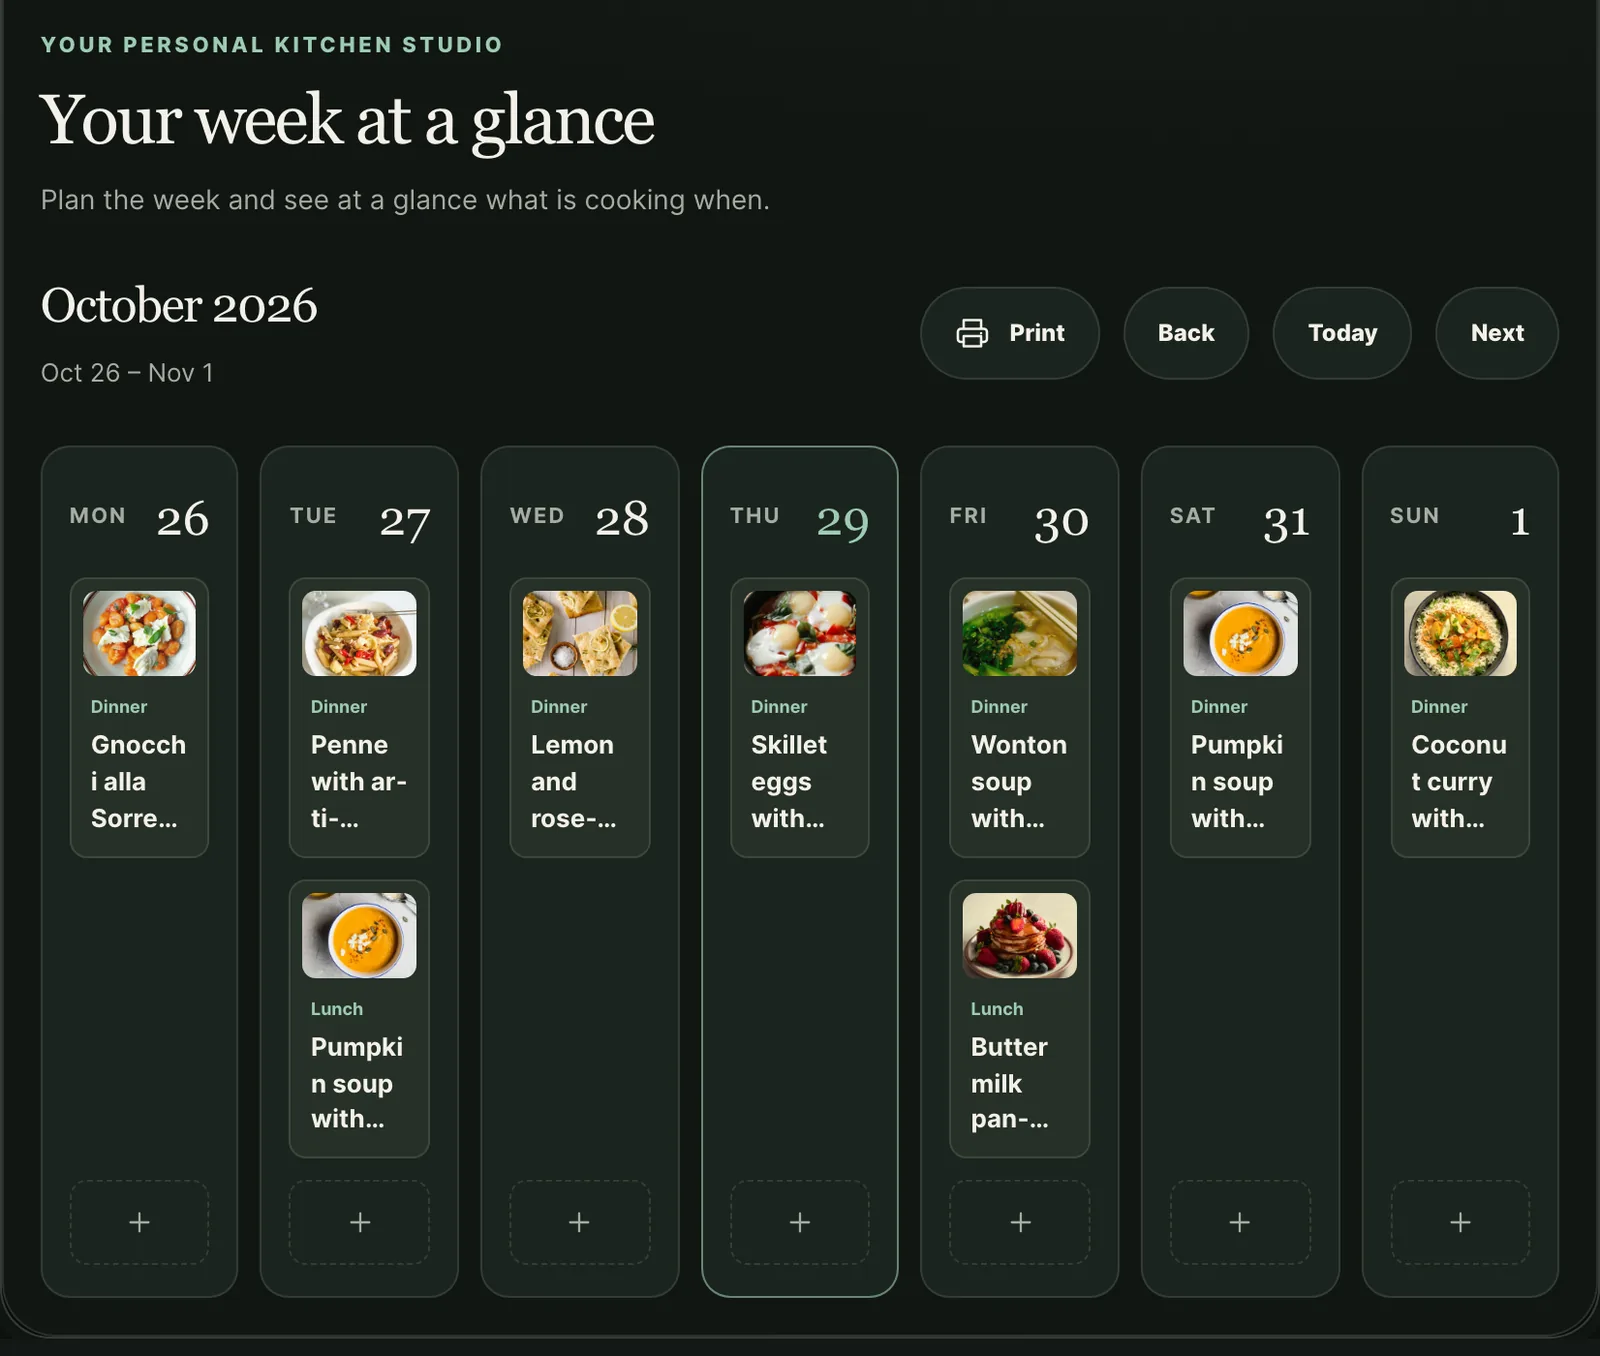
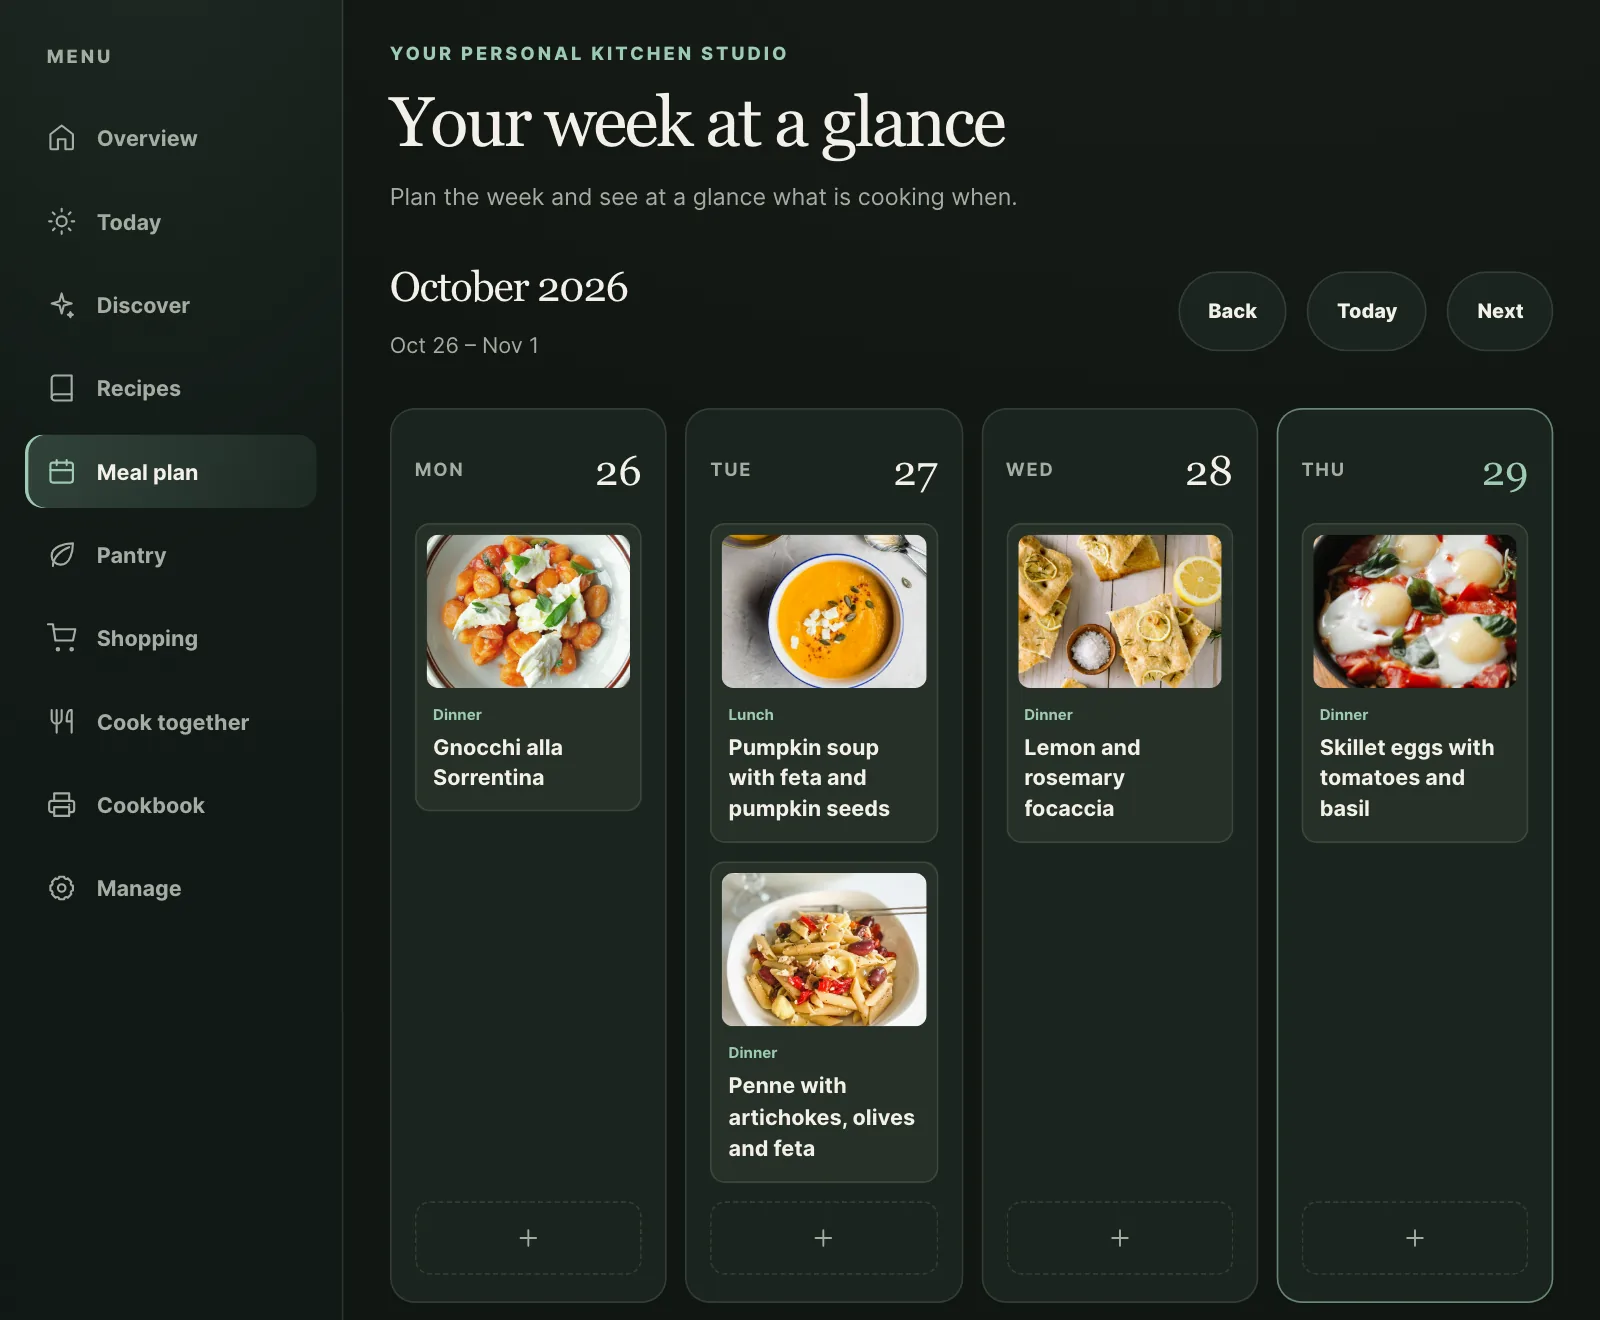
Clear stale sync result after Bring! re-login, fit reauth copy and spacing, recapture week plan feature shot

diff --git a/src/components/bring-wizard.js b/src/components/bring-wizard.js
@@ -557,9 +557,17 @@ export const bringWizardMethods = {
       ? `<dl class="bw-facts">${facts.map(([label, value]) => `<div class="bw-row"><dt>${esc(label)}</dt><dd>${esc(value)}</dd></div>`).join("")}</dl>`
       : "";
     let action = "";
-    if (reauth && editable)
-      action = `<p class="bw-text">${esc(this.t(caps.bringEnv ? "bwReauthTextEnv" : "bwReauthText"))}</p>${this._bwLoginErrorHtml()}${this._bwLoginFormHtml({ again: true })}`;
-    else if (!editable)
+    if (reauth && editable) {
+      // Without a rule there is nothing to keep, so the text must not promise it.
+      const key = caps.bringEnv
+        ? rules.length
+          ? "bwReauthTextEnv"
+          : "bwReauthTextEnvNoRules"
+        : rules.length
+          ? "bwReauthText"
+          : "bwReauthTextNoRules";
+      action = `<p class="bw-text">${esc(this.t(key))}</p>${this._bwLoginErrorHtml()}${this._bwLoginFormHtml({ again: true })}`;
+    } else if (!editable)
       // The read-only notice is the banner at the top of the dialog; saying it twice is noise.
       action = caps.readOnly
         ? ""

diff --git a/src/design-system/bring-wizard.css b/src/design-system/bring-wizard.css
@@ -358,6 +358,10 @@
 .atelier .bw-account > * + * {
   margin-block-start: var(--ds-space-3);
 }
+.atelier .bw-account .bw-account-head + .bw-text {
+  margin-block-start: var(--ds-space-4);
+  line-height: var(--ds-line-body);
+}
 .atelier .bw-account .bw-facts {
   margin-block-end: var(--ds-space-3);
 }
@@ -629,6 +633,9 @@
   }
   .atelier .bw-account > * + * {
     margin-block-start: var(--ds-space-2);
+  }
+  .atelier .bw-account .bw-account-head + .bw-text {
+    margin-block-start: var(--ds-space-3);
   }
   .atelier .bw-account [data-action="sync-bring-disconnect-ask"] {
     min-block-size: 0;

diff --git a/src/components/shopping-sync.js b/src/components/shopping-sync.js
@@ -429,6 +429,10 @@ export const shoppingSyncMethods = {
       sync.state = null;
       sync.raw = "";
       sync.error = "";
+      // A signed-in account must not keep the failure line of the run that expired it.
+      sync.result = "";
+      sync.resultIcon = "";
+      sync.resultQuiet = false;
       if (!wizard) this._modal = "sync";
     } catch (err) {
       bring.error = this._errorText(err);

diff --git a/scripts/capture-app-showcase.py b/scripts/capture-app-showcase.py
@@ -2,6 +2,7 @@
 
   desktop   app-desktop-recipes, app-desktop-mealplan, app-desktop-shopping, compare-desktop-atelier
   tablet    app-tablet-today, app-tablet-mealplan
+  feature   feature-mealplan (the product page "Wochenplan" card: a narrow window, so four whole days read at 580 px)
   phone     app-phone-cookbook, app-phone-discover, app-phone-family, app-phone-family-helper,
             app-phone-mealplan, app-phone-shopping (English only: the German phone shots carry no stale names)
 
@@ -39,6 +40,12 @@ LOCALES = {"de": "de-DE", "en": "en-US"}
 DESKTOP = dict(viewport=(1600, 1000), scale=1, mobile=False)
 COMPARE = dict(viewport=(1600, 797), scale=1, mobile=False)
 TABLET = dict(viewport=(1180, 820), scale=1600 / 1180, mobile=False)
+# The product page card shows the image at about 580 px. A 960 px window wraps the week into rows of four
+# whole days with unbroken names; the crop (CSS px, top and bottom) drops the breadcrumb row above and the
+# second week row below, so the shot ends on the bottom edge of the first row with a little margin.
+# "whole_names" turns automatic hyphenation off for this shot only, so no recipe name breaks mid word
+# ("Arti-schocken"); real hyphens in a name ("Zitronen-Focaccia") still wrap.
+FEATURE = dict(viewport=(960, 1200), scale=1600 / 960, mobile=False, crop=(91, 883), whole_names=True)
 PHONE = dict(viewport=(393, 852), scale=720 / 393, mobile=True)
 
 # name: (device, nav view, extra step, locales)
@@ -49,6 +56,7 @@ SHOTS = {
     "compare-desktop-atelier": (COMPARE, "recipes", None, ("de", "en")),
     "app-tablet-today": (TABLET, "today", None, ("de", "en")),
     "app-tablet-mealplan": (TABLET, "mealplan", None, ("de", "en")),
+    "feature-mealplan": (FEATURE, "mealplan", None, ("de", "en")),
     "app-phone-cookbook": (PHONE, "cookbook", None, ("en",)),
     "app-phone-discover": (PHONE, "discover", None, ("en",)),
     "app-phone-family": (PHONE, "family", None, ("en",)),
@@ -64,6 +72,7 @@ FILL = (
 )
 # Capture only: the screen has no frame of its own, so the card draws no border and fills the whole viewport.
 CARD_FLAT = ".atelier{border:0!important;border-radius:0!important;box-shadow:none!important;min-height:100vh!important}"
+WHOLE_NAMES = ".atelier *{hyphens:manual!important;-webkit-hyphens:manual!important}"
 STALE = re.compile(r"Cook ideas|Meal planner|Family cooking")
 ENGLISH_LEAK = re.compile(r"KITCHEN STUDIO|\bMENU\b|\b(Overview|Today|Recipes|Shopping|Cookbook|Manage|Quick actions)\b")
 GERMAN_LEAK = re.compile(r"KÜCHENSTUDIO|\bMENÜ\b|\b(Übersicht|Heute|Rezepte|Einkaufsliste|Kochbuch|Verwalten|Schnellzugriff)\b")
@@ -157,7 +166,7 @@ def capture(browser, loc, device, view, step):
     card = page.locator("mealie-atelier-card")
     card.evaluate(
         "(c, css) => { const s = document.createElement('style'); s.textContent = css; c.shadowRoot.appendChild(s); }",
-        CARD_FLAT,
+        CARD_FLAT + (WHOLE_NAMES if device.get("whole_names") else ""),
     )
     card.locator(f"[data-action='nav'][data-value='{view}']").first.click()
     page.clock.run_for(2500)
@@ -172,7 +181,11 @@ def capture(browser, loc, device, view, step):
     text = card.evaluate(TEXT_JS)
     png = page.screenshot()
     ctx.close()
-    return Image.open(io.BytesIO(png)).convert("RGB"), text
+    img = Image.open(io.BytesIO(png)).convert("RGB")
+    if "crop" in device:
+        top, bottom = device["crop"]
+        img = img.crop((0, round(top * device["scale"]), img.width, round(bottom * device["scale"])))
+    return img, text
 
 
 def gate(loc, name, text):

diff --git a/CHANGELOG.md b/CHANGELOG.md
@@ -25,6 +25,7 @@ All notable changes to Mealie Atelier Cards, the standalone web app and the demo
 - Layout polish: long German shopping item names wrap with a hyphen instead of leaving a stray letter, recipe step fields in the editor show their last line on phones, and the sync preview button has even spacing above the result.
 - Product page: American English recipes and copy, the install routes for the Marketplace and HACS, "das Mealie-Token", and American date and currency formats.
 - Docs: web README contents, fake Bring! server instructions for Docker, `ATELIER_SYNC_LANGUAGE`, no Advanced mode step (Home Assistant removed it in 2026.6), and American spelling in the changelog. Unused demo food images were removed.
+- Bring! sign-in again: a successful sign-in clears the old failure line, and the reauth text promises kept rules only when a rule exists. The reauth text sits clear of the account heading. The product page week plan image shows four whole days with whole recipe names.
 
 ## [0.12.0] - 2026-10-31
 
